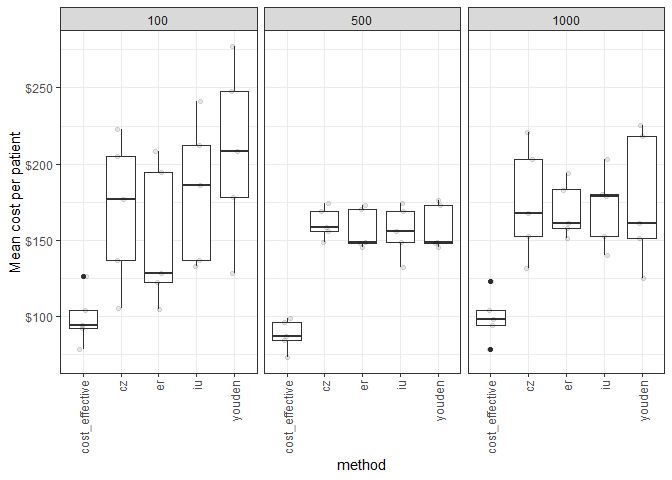
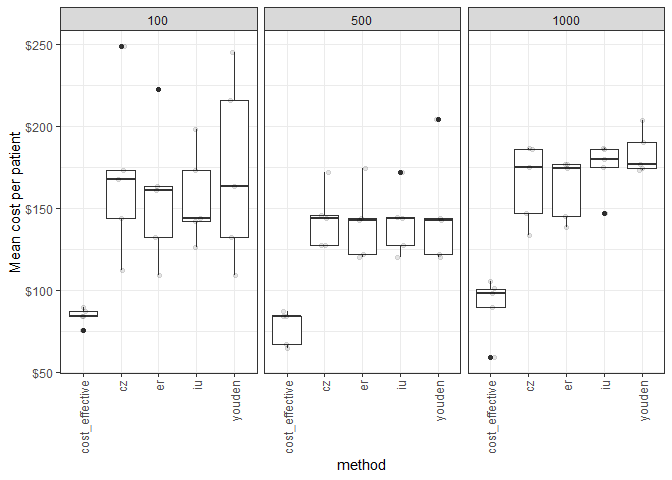
re-run simulation for experiment 1
updated simulation study to get_costs() on each iteration and noise without exact sampling based on prevalence

diff --git a/experiment_1.md b/experiment_1.md
@@ -1,6 +1,6 @@
 Experiment 1
 ================
-14 February, 2022
+15 February, 2022
 
 Question: What are the differences in NMB between models where the
 Probability threshold was based on the currently available methods
@@ -51,7 +51,33 @@ cost_vector <- c(
   "TP"=QALYs_event*(1-treatment_effect)*wtp, 
   "FP"=treatment_cost
 )
+
+f_plot <- function(beta, rate){
+  alpha <- get_alpha(beta, rate)
+  print(alpha)
+  data.frame(sample=rbeta(n=10000, alpha, beta)) %>%
+    ggplot(aes(sample)) + geom_density()
+}
+# f_plot(1000, 0.1)
+
+get_costs <- function(){
+  treatment_effect <- rbeta(1, 111.111, 1000)
+  QALYs_event <- rbeta(1, 10/3, 30)
+  treatment_cost <- rgamma(1, 250)
+  wtp <- 28000
+  
+  c(
+    "TN"=0, 
+    "FN"=QALYs_event*wtp, 
+    "TP"=QALYs_event*(1-treatment_effect)*wtp, 
+    "FP"=treatment_cost
+  )
+}
+get_costs()
 ```
+
+    ##        TN        FN        TP        FP 
+    ##    0.0000 3504.4305 3173.8869  259.5966
 
 ### Add helper functions for determining classifying predictions and estimating probability thresholds.
 
@@ -99,25 +125,35 @@ get_thresholds <- function(predicted, actual, pt_seq=seq(0.01, 0.99,0.01), costs
 ### Run simulation
 
 ``` r
+# source("src/utils.R")
 sample_sizes <- c(100, 500, 1000)
-n_sims <- 500
+n_sims <- 100
 n_valid <- 1000
-sim_auc <- 0.75
-event_rate <- 0.1
+sim_auc <- 0.65
+event_rate <- 0.02
 
 df_result <- data.frame(
   train_sample_size=c(), n_sim=c(), youden_cost=c(), cost_effective_cost=c(),
   cz_cost=c(), iu_cost=c(), er_cost=c()
 )
 
+
 for(n in sample_sizes){
-  for(i in 1:n_sims){
+  i <- 0
+  while(i < n_sims){
     train_sample <- get_sample(auc=sim_auc, n_samples=n, prevalence=event_rate)
+    valid_sample <- get_sample(auc=sim_auc, n_samples=n_valid, prevalence=event_rate)
+    if(length(unique(train_sample$actual))!=2 | length(unique(valid_sample$actual))!=2){
+      next
+    }
+    i <- i + 1
     model <- glm(actual~predicted, data=train_sample, family=binomial())
     train_sample$predicted <- predict(model, type="response")
 
-    valid_sample <- get_sample(auc=sim_auc, n_samples=n_valid, prevalence=event_rate)
+    
     valid_sample$predicted <- predict(model, type="response", newdata=valid_sample)
+    
+    cost_vector <- get_costs()
     
     thresholds <- get_thresholds(
       predicted=train_sample$predicted, 
@@ -131,6 +167,8 @@ for(n in sample_sizes){
       pt=thresholds$pt_youden,
       costs=cost_vector
     )
+    
+    cost_vector <- get_costs()
     
     cost_threshold <- function(pt){
       classify_samples(
